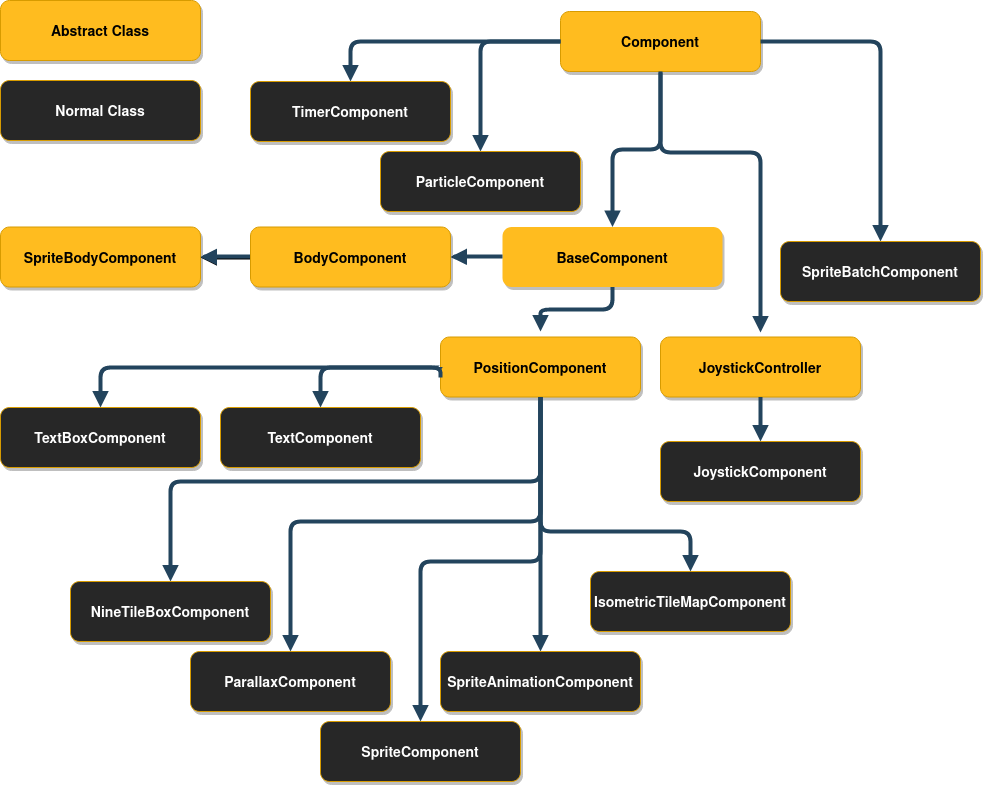
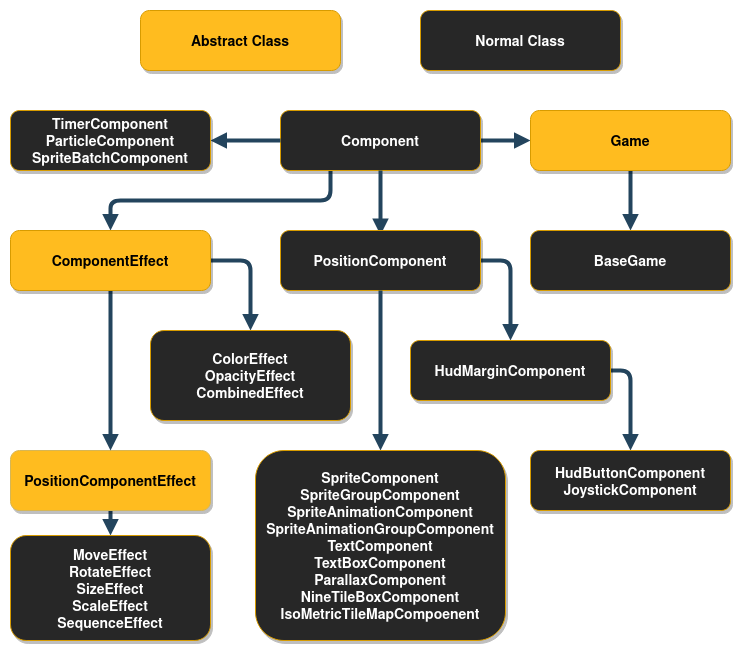
Update docs

diff --git a/examples/lib/stories/effects/rotate_effect.dart b/examples/lib/stories/effects/rotate_effect.dart
@@ -19,7 +19,6 @@ class RotateEffectGame extends BaseGame with TapDetector {
     add(square);
   }
 
-  // TODO(spydon): Is rotate effect not working when isAlternate?
   @override
   void onTap() {
     square.add(

diff --git a/doc/components.md b/doc/components.md
@@ -14,22 +14,24 @@ Every `Component` has a few methods that you can optionally implement, which are
 `BaseGame` class. If you are not using `BaseGame`, you can alternatively use these methods on your
 own game loop.
 
-The `resize` method is called whenever the screen is resized, and in the beginning once when the
-component is added to the game via the `add` method.
+The `onGameResize` method is called whenever the screen is resized, and once in the beginning when
+the component is added to the game via the `add` method.
 
 The `shouldRemove` variable can be overridden or set to true and `BaseGame` will remove the
 component before the next update loop. It will then no longer be rendered or updated. Note that
-`game.remove(Component c)` can also be used to remove components from the game.
+`game.remove(Component c)` and `component.removeFromParent()` also can be used to remove components
+from its parent.
 
 The `isHUD` variable can be overridden or set to true (defaults to `false`) to make the `BaseGame`
-ignore the `camera` for this element, make it static in relation to the screen that is.
+ignore the `camera` for this element, making it static in relation to the screen that is.
+Do note that this currently only works if the component is added directly to the root `BaseGame`.
 
 The `onMount` method can be overridden to run initialization code for the component. When this
 method is called, BaseGame ensures that all the mixins which would change this component's behavior
 are already resolved.
 
 The `onRemove` method can be overridden to run code before the component is removed from the game,
-it is only run once even if the component is removed both by using the `BaseGame` remove method and
+it is only run once even if the component is removed both by using the parents remove method and
 the `Component` remove method.
 
 The `onLoad` method can be overridden to run asynchronous initialization code for the component,
@@ -40,17 +42,17 @@ of the component in the `BaseGame`'s list of components.
 ## BaseComponent
 Usually if you are going to make your own component you want to extend `PositionComponent`, but if
 you want to be able to handle effects and child components but handle the positioning differently
-you can extend the `BaseComponent`.
+you can extend the `Component` directly.
 
-It is used by `SpriteBodyComponent`, `PositionBodyComponent`, and `BodyComponent` in Forge2D since
-those components doesn't have their position in relation to the screen, but in relation to the
-Forge2D world.
+`Component` is used by `SpriteBodyComponent`, `PositionBodyComponent`, and `BodyComponent` in
+`flame_forge2d` since those components doesn't have their position in relation to the screen, but in
+relation to the Forge2D world.
 
 ### Composability of components
 
 Sometimes it is useful to wrap other components inside of your component. For example by grouping
-visual components through a hierarchy. You can do this by having child components on any component
-that extends `BaseComponent`, for example `PositionComponent` or `BodyComponent`.
+visual components through a hierarchy. You can do this by adding child components to any component,
+for example `PositionComponent`.
 When you have child components on a component every time the parent is updated and rendered, all the
 children are rendered and updated with the same conditions.
 
@@ -68,8 +70,8 @@ class GameOverPanel extends PositionComponent with HasGameRef<MyGame> {
     final gameOverText = GameOverText(spriteImage); // GameOverText is a Component
     final gameOverButton = GameOverButton(spriteImage); // GameOverRestart is a SpriteComponent
 
-    addChild(gameRef, gameOverText);
-    addChild(gameRef, gameOverButton);
+    add(gameOverText);
+    add(gameOverButton);
   }
 
   @override

diff --git a/doc/effects.md b/doc/effects.md
@@ -1,12 +1,10 @@
 # Effects
 
-An effect can be applied to any `Component` that the effect supports.
+An effect can be added to any `Component` that the effect supports.
 
-At the moment there are only `PositionComponentEffect`s, which are applied to `PositionComponent`s,
-which are presented below.
-
-If you want to create an effect for another component just extend the `ComponentEffect` class and
-add your created effect to the component by calling `component.add(yourEffect)`.
+If you want to create an effect for another component than the ones that already exist, just extend
+the `ComponentEffect` class and add your created effect to the component by calling
+`component.add(yourEffect)`.
 
 ## Common for all effects
 
@@ -188,24 +186,20 @@ An example of how to use the `SequenceEffect` can be found
 
 ## CombinedEffect
 
-This effect runs several different type of effects simultaneously. You provide it with a list of
-your predefined effects and an offset in time which should pass in between starting each effect.
+This effect runs several different type of effects simultaneously on the component that it is added
+to. You provide it with a list of your predefined effects and if you don't want them to start or end
+at the same time you can utilize the `preOffset` and `postOffset` to add time before or after the
+effect runs.
 
 The effects in the list should only be passed to the `CombinedEffect`, never added to a
-`PositionComponent` with `add`.
+`PositionComponent` with `add` at the same time.
 
-**Note**: No effects should be of the same type since they will clash when trying to modify the
-`PositionComponent`.
-
-You can make the combined effect go in a loop by setting both `isInfinite: true` and
-`isAlternating: true`.
+**Note**: No effects should be of the same type since they will clash when trying to modify for
+example a `PositionComponent`.
 
 Usage example:
 ```dart
-final combination = CombinedEffect(
-    effects: [move, size, rotate],
-    isInfinite: true,
-    isAlternating: true);
+final combination = CombinedEffect(effects: [move, size, rotate]);
 myComponent.add(combination);
 ```
 
@@ -251,8 +245,8 @@ An example of how to use the `OpacityEffect` can be found
 
 ## ColorEffect
 
-This effect will change the base color of the paint, causing the rendered component to be tinted by the provided color.
-
+This effect will change the base color of the paint, causing the rendered component to be tinted by
+the provided color.
 
 Usage example:
 
